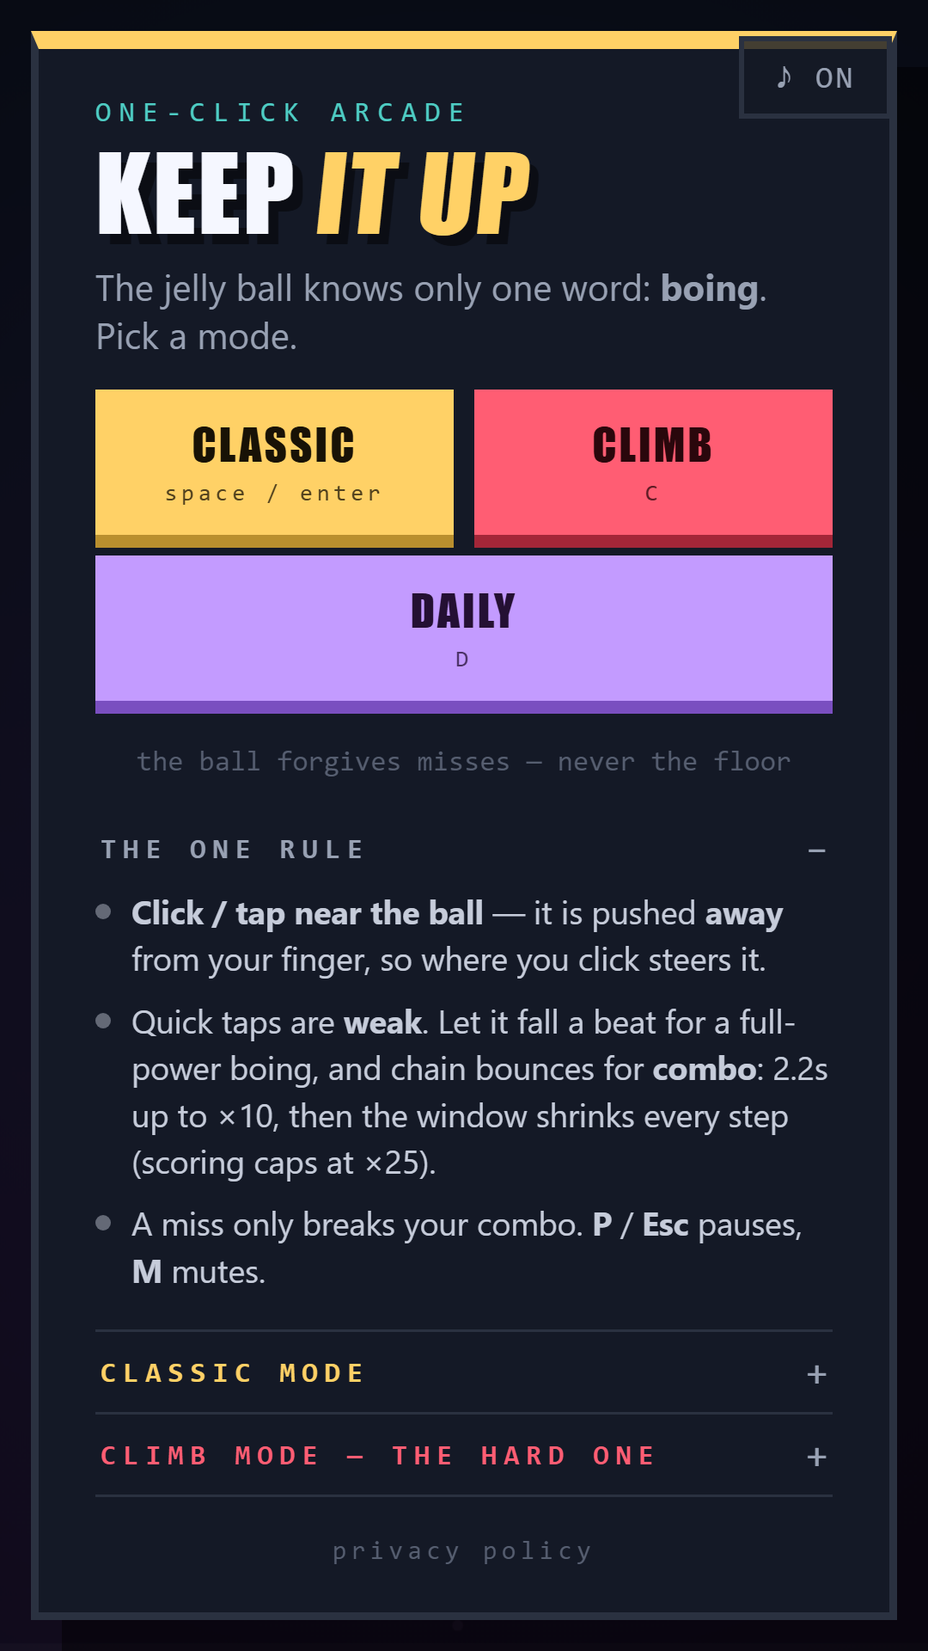
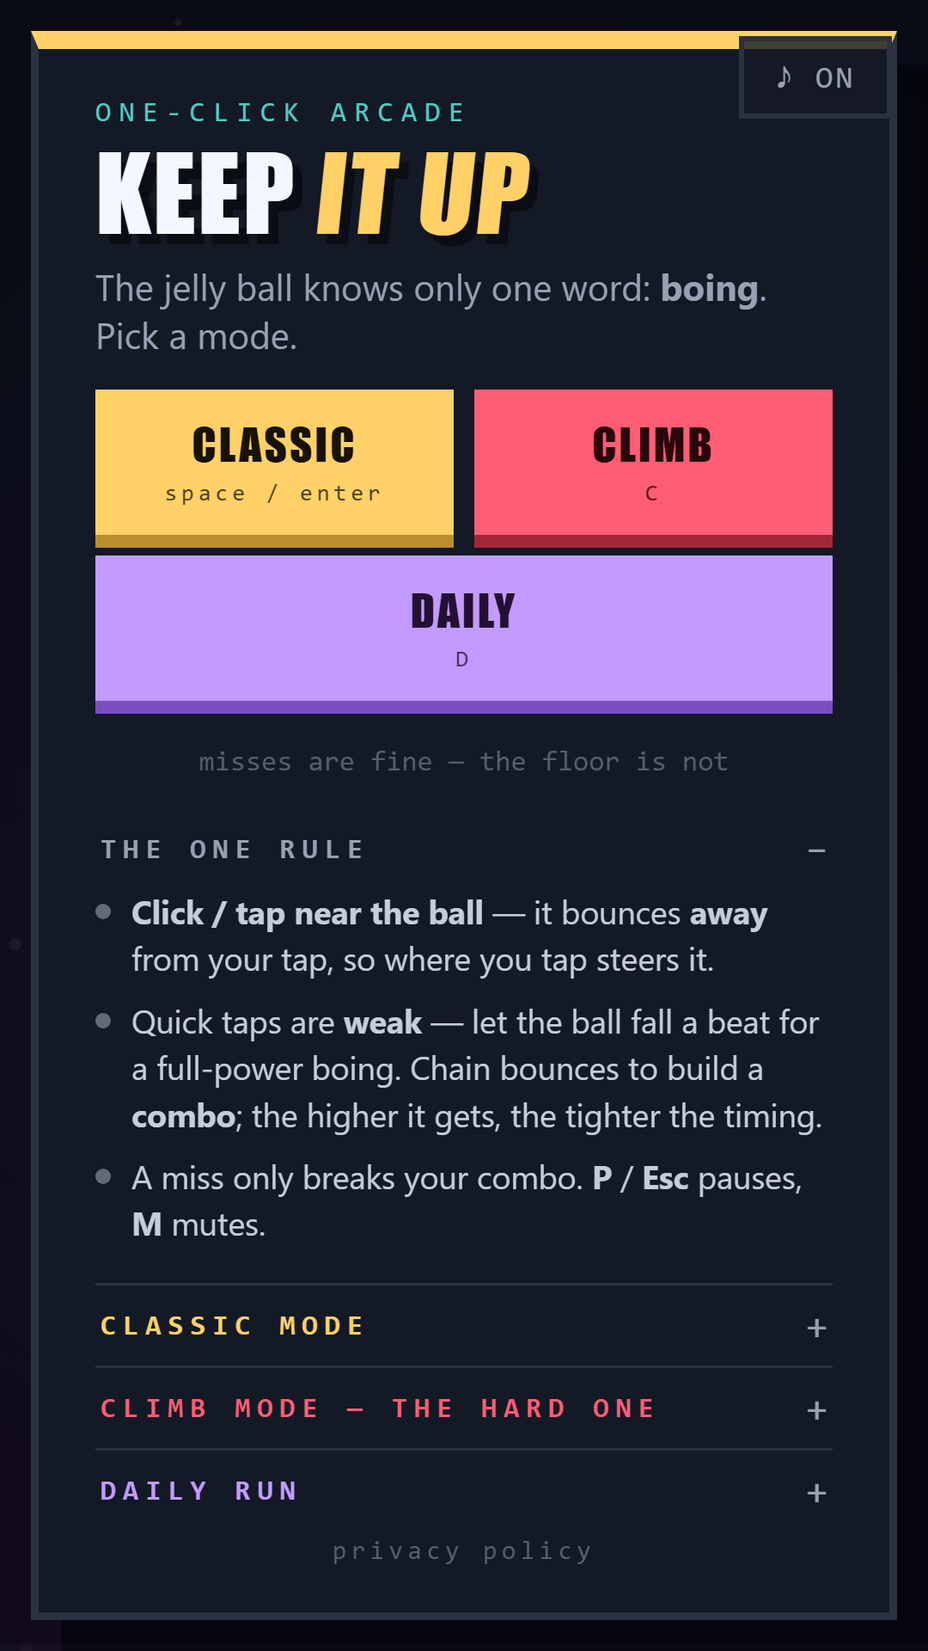
[ui] menu copy: casual plain-language instructions, no seconds/pixels/point values; capture rig gains -Only scene filter, menu shots re-captured

diff --git a/index.html b/index.html
@@ -265,67 +265,67 @@ body.noDisplay h1, body.noDisplay .modeBtn, body.noDisplay button.big{font-weigh
       <button id="startBtn" class="modeBtn gold" type="button">CLASSIC<span class="kbd">space / enter</span></button>
       <button id="climbBtn" class="modeBtn red" type="button">CLIMB<span class="kbd">C</span></button>
       <button id="dailyBtn" class="modeBtn violet" type="button">DAILY<span class="kbd">D</span></button>
-      <p class="hint">the ball forgives misses &mdash; never the floor</p>
+      <p class="hint">misses are fine &mdash; the floor is not</p>
     </div>
     <div class="panelBody">
       <details class="msec" name="howto" open>
         <summary><h2>The one rule</h2></summary>
         <ul class="rules">
-          <li><b>Click / tap near the ball</b> &mdash; it is pushed <b>away</b> from your finger, so where you click steers it.</li>
-          <li>Quick taps are <b>weak</b>. Let it fall a beat for a full-power boing, and chain bounces for <b>combo</b>: 2.2s up to &times;10, then the window shrinks every step (scoring caps at &times;25).</li>
+          <li><b>Click / tap near the ball</b> &mdash; it bounces <b>away</b> from your tap, so where you tap steers it.</li>
+          <li>Quick taps are <b>weak</b> &mdash; let the ball fall a beat for a full-power boing. Chain bounces to build a <b>combo</b>; the higher it gets, the tighter the timing.</li>
           <li>A miss only breaks your combo.<span class="pcOnly"> <b>P</b> / <b>Esc</b> pauses, <b>M</b> mutes.</span></li>
         </ul>
       </details>
       <details class="msec" name="howto">
         <summary><h2 class="hGold">Classic mode</h2></summary>
         <ul class="rules">
-          <li>Score = bounce points &times; combo + pickups. Your best is saved.</li>
-          <li>The <b>floor</b> kills. Hazards start after 9s and never spawn on top of you.</li>
-          <li>Skim a hazard without touching it for a <b>+15 near-miss</b>.</li>
+          <li>Bounces score points and combos multiply them; pickups add more. Your best is saved.</li>
+          <li>The <b>floor</b> ends the run. Hazards join in after a short warm-up, and never right on top of you.</li>
+          <li>Slip past a hazard without touching it for a <b>near-miss bonus</b>.</li>
         </ul>
       </details>
       <details class="msec" name="howto">
         <summary><h2 class="hRed">Climb mode &mdash; the hard one</h2></summary>
         <ul class="rules">
-          <li>Score = <b>metres climbed</b>. The camera only ever moves up.</li>
-          <li>Every 300px a wall of saws blocks the sky with <b>one dashed corridor</b> &mdash; that is your way through.</li>
-          <li><b>Lava</b> rises from below after a 3s grace. It is your floor now.</li>
-          <li>Corridor stars pay +5m; every third wall hides a shield.</li>
+          <li>You score by <b>how high you climb</b>. The camera only moves up.</li>
+          <li>Walls of saws block the sky, each with <b>one dashed gap</b> &mdash; that gap is your way through.</li>
+          <li><b>Lava</b> rises from below after a short head start. It is your floor now.</li>
+          <li>Stars in the gaps add metres, and now and then a wall hides a shield.</li>
         </ul>
       </details>
       <details class="msec" name="howto">
         <summary><h2 class="hViolet">Daily run</h2></summary>
         <p id="dailyStrip" class="daily"></p>
         <ul class="rules">
-          <li>Classic rules, but today's date remixes gravity, saw pace, saw speed and star rate.</li>
-          <li>Everyone gets the same mix; only your best for the day is remembered.</li>
+          <li>Classic rules with a daily twist &mdash; gravity, saws and stars get remixed.</li>
+          <li>Everyone plays the same mix; only your best run of the day is kept.</li>
         </ul>
       </details>
       <details class="msec" name="howto">
         <summary><h2>Hazards &mdash; what kills you</h2></summary>
         <ul class="legend">
-          <li><canvas class="icon" data-icon="saw" aria-hidden="true"></canvas><div><b>Saw</b> &mdash; crosses the screen; a red edge flash warns you before it arrives.</div></li>
-          <li><canvas class="icon" data-icon="spike" aria-hidden="true"></canvas><div><b>Spike</b> &mdash; a ceiling marker telegraphs for 1s, then it drops where you <i>were</i>. Keep moving.</div></li>
-          <li><canvas class="icon" data-icon="seeker" aria-hidden="true"></canvas><div><b>Drone</b> &mdash; after 20s. Slow homing, capped turn rate, dies on walls. Out-fly it.</div></li>
-          <li><canvas class="icon" data-icon="lava" aria-hidden="true"></canvas><div><b>Lava</b> (climb) &mdash; rises forever after its grace. Touching it ends the run.</div></li>
+          <li><canvas class="icon" data-icon="saw" aria-hidden="true"></canvas><div><b>Saw</b> &mdash; sweeps across the screen; the edge flashes red before it arrives.</div></li>
+          <li><canvas class="icon" data-icon="spike" aria-hidden="true"></canvas><div><b>Spike</b> &mdash; a marker on the ceiling warns you, then it drops where you <i>were</i>. Keep moving.</div></li>
+          <li><canvas class="icon" data-icon="seeker" aria-hidden="true"></canvas><div><b>Drone</b> &mdash; shows up later in the run. It chases you slowly, turns wide and dies on walls. Out-fly it.</div></li>
+          <li><canvas class="icon" data-icon="lava" aria-hidden="true"></canvas><div><b>Lava</b> (climb) &mdash; rises from below and never stops. Touching it ends the run.</div></li>
         </ul>
       </details>
       <details class="msec" name="howto">
         <summary><h2>Pickups &mdash; what helps you</h2></summary>
         <ul class="legend">
-          <li><canvas class="icon" data-icon="star" aria-hidden="true"></canvas><div><b>Star</b> &mdash; +40 points (+5m in climb). Blinks just before it despawns.</div></li>
-          <li><canvas class="icon" data-icon="shield" aria-hidden="true"></canvas><div><b>Shield</b> &mdash; eats exactly one hazard hit, then pops.</div></li>
-          <li><canvas class="icon" data-icon="slowmo" aria-hidden="true"></canvas><div><b>Slow-mo</b> &mdash; time crawls at 45% for 4s. Saws included.</div></li>
-          <li><canvas class="icon" data-icon="magnet" aria-hidden="true"></canvas><div><b>Magnet</b> &mdash; stars within 150px fly to you for 6s.</div></li>
-          <li><canvas class="icon" data-icon="heavy" aria-hidden="true"></canvas><div><b>Heavy star</b> &mdash; +200 points, but gravity +15% for 8s. Greed is a choice.</div></li>
+          <li><canvas class="icon" data-icon="star" aria-hidden="true"></canvas><div><b>Star</b> &mdash; bonus points, extra metres in climb. Blinks right before it vanishes.</div></li>
+          <li><canvas class="icon" data-icon="shield" aria-hidden="true"></canvas><div><b>Shield</b> &mdash; takes one hit for you, then pops.</div></li>
+          <li><canvas class="icon" data-icon="slowmo" aria-hidden="true"></canvas><div><b>Slow-mo</b> &mdash; everything slows right down for a while, saws included.</div></li>
+          <li><canvas class="icon" data-icon="magnet" aria-hidden="true"></canvas><div><b>Magnet</b> &mdash; nearby stars fly to you for a while.</div></li>
+          <li><canvas class="icon" data-icon="heavy" aria-hidden="true"></canvas><div><b>Heavy star</b> &mdash; a big score, but the ball gets heavier for a while. Greed is a choice.</div></li>
         </ul>
       </details>
       <details class="msec" name="howto">
         <summary><h2>Progress</h2></summary>
         <div id="badges" class="badges" role="group" aria-label="Achievements"></div>
-        <p class="mini">Badges: &times;10 combo &middot; 3 stars in one run &middot; survive 120s &middot; a shield save.</p>
+        <p class="mini">Badges: a big combo &middot; a few stars in one run &middot; a long run &middot; a shield save.</p>
         <div id="skins" class="swatches" role="group" aria-label="Ball skins"></div>
-        <p class="mini">Skins unlock at best 0 / 600 / 1800 / 4000. Click one to wear it.</p>
+        <p class="mini">New skins unlock as your best score grows. Click one to wear it.</p>
       </details>
     </div>
     <a id="privacyLink" class="miniLink" href="https://demerest.github.io/click-bounce/privacy.html"

diff --git a/dev.html b/dev.html
@@ -54,67 +54,67 @@ window.addEventListener('error', function(e){
       <button id="startBtn" class="modeBtn gold" type="button">CLASSIC<span class="kbd">space / enter</span></button>
       <button id="climbBtn" class="modeBtn red" type="button">CLIMB<span class="kbd">C</span></button>
       <button id="dailyBtn" class="modeBtn violet" type="button">DAILY<span class="kbd">D</span></button>
-      <p class="hint">the ball forgives misses &mdash; never the floor</p>
+      <p class="hint">misses are fine &mdash; the floor is not</p>
     </div>
     <div class="panelBody">
       <details class="msec" name="howto" open>
         <summary><h2>The one rule</h2></summary>
         <ul class="rules">
-          <li><b>Click / tap near the ball</b> &mdash; it is pushed <b>away</b> from your finger, so where you click steers it.</li>
-          <li>Quick taps are <b>weak</b>. Let it fall a beat for a full-power boing, and chain bounces for <b>combo</b>: 2.2s up to &times;10, then the window shrinks every step (scoring caps at &times;25).</li>
+          <li><b>Click / tap near the ball</b> &mdash; it bounces <b>away</b> from your tap, so where you tap steers it.</li>
+          <li>Quick taps are <b>weak</b> &mdash; let the ball fall a beat for a full-power boing. Chain bounces to build a <b>combo</b>; the higher it gets, the tighter the timing.</li>
           <li>A miss only breaks your combo.<span class="pcOnly"> <b>P</b> / <b>Esc</b> pauses, <b>M</b> mutes.</span></li>
         </ul>
       </details>
       <details class="msec" name="howto">
         <summary><h2 class="hGold">Classic mode</h2></summary>
         <ul class="rules">
-          <li>Score = bounce points &times; combo + pickups. Your best is saved.</li>
-          <li>The <b>floor</b> kills. Hazards start after 9s and never spawn on top of you.</li>
-          <li>Skim a hazard without touching it for a <b>+15 near-miss</b>.</li>
+          <li>Bounces score points and combos multiply them; pickups add more. Your best is saved.</li>
+          <li>The <b>floor</b> ends the run. Hazards join in after a short warm-up, and never right on top of you.</li>
+          <li>Slip past a hazard without touching it for a <b>near-miss bonus</b>.</li>
         </ul>
       </details>
       <details class="msec" name="howto">
         <summary><h2 class="hRed">Climb mode &mdash; the hard one</h2></summary>
         <ul class="rules">
-          <li>Score = <b>metres climbed</b>. The camera only ever moves up.</li>
-          <li>Every 300px a wall of saws blocks the sky with <b>one dashed corridor</b> &mdash; that is your way through.</li>
-          <li><b>Lava</b> rises from below after a 3s grace. It is your floor now.</li>
-          <li>Corridor stars pay +5m; every third wall hides a shield.</li>
+          <li>You score by <b>how high you climb</b>. The camera only moves up.</li>
+          <li>Walls of saws block the sky, each with <b>one dashed gap</b> &mdash; that gap is your way through.</li>
+          <li><b>Lava</b> rises from below after a short head start. It is your floor now.</li>
+          <li>Stars in the gaps add metres, and now and then a wall hides a shield.</li>
         </ul>
       </details>
       <details class="msec" name="howto">
         <summary><h2 class="hViolet">Daily run</h2></summary>
         <p id="dailyStrip" class="daily"></p>
         <ul class="rules">
-          <li>Classic rules, but today's date remixes gravity, saw pace, saw speed and star rate.</li>
-          <li>Everyone gets the same mix; only your best for the day is remembered.</li>
+          <li>Classic rules with a daily twist &mdash; gravity, saws and stars get remixed.</li>
+          <li>Everyone plays the same mix; only your best run of the day is kept.</li>
         </ul>
       </details>
       <details class="msec" name="howto">
         <summary><h2>Hazards &mdash; what kills you</h2></summary>
         <ul class="legend">
-          <li><canvas class="icon" data-icon="saw" aria-hidden="true"></canvas><div><b>Saw</b> &mdash; crosses the screen; a red edge flash warns you before it arrives.</div></li>
-          <li><canvas class="icon" data-icon="spike" aria-hidden="true"></canvas><div><b>Spike</b> &mdash; a ceiling marker telegraphs for 1s, then it drops where you <i>were</i>. Keep moving.</div></li>
-          <li><canvas class="icon" data-icon="seeker" aria-hidden="true"></canvas><div><b>Drone</b> &mdash; after 20s. Slow homing, capped turn rate, dies on walls. Out-fly it.</div></li>
-          <li><canvas class="icon" data-icon="lava" aria-hidden="true"></canvas><div><b>Lava</b> (climb) &mdash; rises forever after its grace. Touching it ends the run.</div></li>
+          <li><canvas class="icon" data-icon="saw" aria-hidden="true"></canvas><div><b>Saw</b> &mdash; sweeps across the screen; the edge flashes red before it arrives.</div></li>
+          <li><canvas class="icon" data-icon="spike" aria-hidden="true"></canvas><div><b>Spike</b> &mdash; a marker on the ceiling warns you, then it drops where you <i>were</i>. Keep moving.</div></li>
+          <li><canvas class="icon" data-icon="seeker" aria-hidden="true"></canvas><div><b>Drone</b> &mdash; shows up later in the run. It chases you slowly, turns wide and dies on walls. Out-fly it.</div></li>
+          <li><canvas class="icon" data-icon="lava" aria-hidden="true"></canvas><div><b>Lava</b> (climb) &mdash; rises from below and never stops. Touching it ends the run.</div></li>
         </ul>
       </details>
       <details class="msec" name="howto">
         <summary><h2>Pickups &mdash; what helps you</h2></summary>
         <ul class="legend">
-          <li><canvas class="icon" data-icon="star" aria-hidden="true"></canvas><div><b>Star</b> &mdash; +40 points (+5m in climb). Blinks just before it despawns.</div></li>
-          <li><canvas class="icon" data-icon="shield" aria-hidden="true"></canvas><div><b>Shield</b> &mdash; eats exactly one hazard hit, then pops.</div></li>
-          <li><canvas class="icon" data-icon="slowmo" aria-hidden="true"></canvas><div><b>Slow-mo</b> &mdash; time crawls at 45% for 4s. Saws included.</div></li>
-          <li><canvas class="icon" data-icon="magnet" aria-hidden="true"></canvas><div><b>Magnet</b> &mdash; stars within 150px fly to you for 6s.</div></li>
-          <li><canvas class="icon" data-icon="heavy" aria-hidden="true"></canvas><div><b>Heavy star</b> &mdash; +200 points, but gravity +15% for 8s. Greed is a choice.</div></li>
+          <li><canvas class="icon" data-icon="star" aria-hidden="true"></canvas><div><b>Star</b> &mdash; bonus points, extra metres in climb. Blinks right before it vanishes.</div></li>
+          <li><canvas class="icon" data-icon="shield" aria-hidden="true"></canvas><div><b>Shield</b> &mdash; takes one hit for you, then pops.</div></li>
+          <li><canvas class="icon" data-icon="slowmo" aria-hidden="true"></canvas><div><b>Slow-mo</b> &mdash; everything slows right down for a while, saws included.</div></li>
+          <li><canvas class="icon" data-icon="magnet" aria-hidden="true"></canvas><div><b>Magnet</b> &mdash; nearby stars fly to you for a while.</div></li>
+          <li><canvas class="icon" data-icon="heavy" aria-hidden="true"></canvas><div><b>Heavy star</b> &mdash; a big score, but the ball gets heavier for a while. Greed is a choice.</div></li>
         </ul>
       </details>
       <details class="msec" name="howto">
         <summary><h2>Progress</h2></summary>
         <div id="badges" class="badges" role="group" aria-label="Achievements"></div>
-        <p class="mini">Badges: &times;10 combo &middot; 3 stars in one run &middot; survive 120s &middot; a shield save.</p>
+        <p class="mini">Badges: a big combo &middot; a few stars in one run &middot; a long run &middot; a shield save.</p>
         <div id="skins" class="swatches" role="group" aria-label="Ball skins"></div>
-        <p class="mini">Skins unlock at best 0 / 600 / 1800 / 4000. Click one to wear it.</p>
+        <p class="mini">New skins unlock as your best score grows. Click one to wear it.</p>
       </details>
     </div>
     <a id="privacyLink" class="miniLink" href="https://demerest.github.io/click-bounce/privacy.html"

diff --git a/src/shell.html b/src/shell.html
@@ -54,67 +54,67 @@ window.addEventListener('error', function(e){
       <button id="startBtn" class="modeBtn gold" type="button">CLASSIC<span class="kbd">space / enter</span></button>
       <button id="climbBtn" class="modeBtn red" type="button">CLIMB<span class="kbd">C</span></button>
       <button id="dailyBtn" class="modeBtn violet" type="button">DAILY<span class="kbd">D</span></button>
-      <p class="hint">the ball forgives misses &mdash; never the floor</p>
+      <p class="hint">misses are fine &mdash; the floor is not</p>
     </div>
     <div class="panelBody">
       <details class="msec" name="howto" open>
         <summary><h2>The one rule</h2></summary>
         <ul class="rules">
-          <li><b>Click / tap near the ball</b> &mdash; it is pushed <b>away</b> from your finger, so where you click steers it.</li>
-          <li>Quick taps are <b>weak</b>. Let it fall a beat for a full-power boing, and chain bounces for <b>combo</b>: 2.2s up to &times;10, then the window shrinks every step (scoring caps at &times;25).</li>
+          <li><b>Click / tap near the ball</b> &mdash; it bounces <b>away</b> from your tap, so where you tap steers it.</li>
+          <li>Quick taps are <b>weak</b> &mdash; let the ball fall a beat for a full-power boing. Chain bounces to build a <b>combo</b>; the higher it gets, the tighter the timing.</li>
           <li>A miss only breaks your combo.<span class="pcOnly"> <b>P</b> / <b>Esc</b> pauses, <b>M</b> mutes.</span></li>
         </ul>
       </details>
       <details class="msec" name="howto">
         <summary><h2 class="hGold">Classic mode</h2></summary>
         <ul class="rules">
-          <li>Score = bounce points &times; combo + pickups. Your best is saved.</li>
-          <li>The <b>floor</b> kills. Hazards start after 9s and never spawn on top of you.</li>
-          <li>Skim a hazard without touching it for a <b>+15 near-miss</b>.</li>
+          <li>Bounces score points and combos multiply them; pickups add more. Your best is saved.</li>
+          <li>The <b>floor</b> ends the run. Hazards join in after a short warm-up, and never right on top of you.</li>
+          <li>Slip past a hazard without touching it for a <b>near-miss bonus</b>.</li>
         </ul>
       </details>
       <details class="msec" name="howto">
         <summary><h2 class="hRed">Climb mode &mdash; the hard one</h2></summary>
         <ul class="rules">
-          <li>Score = <b>metres climbed</b>. The camera only ever moves up.</li>
-          <li>Every 300px a wall of saws blocks the sky with <b>one dashed corridor</b> &mdash; that is your way through.</li>
-          <li><b>Lava</b> rises from below after a 3s grace. It is your floor now.</li>
-          <li>Corridor stars pay +5m; every third wall hides a shield.</li>
+          <li>You score by <b>how high you climb</b>. The camera only moves up.</li>
+          <li>Walls of saws block the sky, each with <b>one dashed gap</b> &mdash; that gap is your way through.</li>
+          <li><b>Lava</b> rises from below after a short head start. It is your floor now.</li>
+          <li>Stars in the gaps add metres, and now and then a wall hides a shield.</li>
         </ul>
       </details>
       <details class="msec" name="howto">
         <summary><h2 class="hViolet">Daily run</h2></summary>
         <p id="dailyStrip" class="daily"></p>
         <ul class="rules">
-          <li>Classic rules, but today's date remixes gravity, saw pace, saw speed and star rate.</li>
-          <li>Everyone gets the same mix; only your best for the day is remembered.</li>
+          <li>Classic rules with a daily twist &mdash; gravity, saws and stars get remixed.</li>
+          <li>Everyone plays the same mix; only your best run of the day is kept.</li>
         </ul>
       </details>
       <details class="msec" name="howto">
         <summary><h2>Hazards &mdash; what kills you</h2></summary>
         <ul class="legend">
-          <li><canvas class="icon" data-icon="saw" aria-hidden="true"></canvas><div><b>Saw</b> &mdash; crosses the screen; a red edge flash warns you before it arrives.</div></li>
-          <li><canvas class="icon" data-icon="spike" aria-hidden="true"></canvas><div><b>Spike</b> &mdash; a ceiling marker telegraphs for 1s, then it drops where you <i>were</i>. Keep moving.</div></li>
-          <li><canvas class="icon" data-icon="seeker" aria-hidden="true"></canvas><div><b>Drone</b> &mdash; after 20s. Slow homing, capped turn rate, dies on walls. Out-fly it.</div></li>
-          <li><canvas class="icon" data-icon="lava" aria-hidden="true"></canvas><div><b>Lava</b> (climb) &mdash; rises forever after its grace. Touching it ends the run.</div></li>
+          <li><canvas class="icon" data-icon="saw" aria-hidden="true"></canvas><div><b>Saw</b> &mdash; sweeps across the screen; the edge flashes red before it arrives.</div></li>
+          <li><canvas class="icon" data-icon="spike" aria-hidden="true"></canvas><div><b>Spike</b> &mdash; a marker on the ceiling warns you, then it drops where you <i>were</i>. Keep moving.</div></li>
+          <li><canvas class="icon" data-icon="seeker" aria-hidden="true"></canvas><div><b>Drone</b> &mdash; shows up later in the run. It chases you slowly, turns wide and dies on walls. Out-fly it.</div></li>
+          <li><canvas class="icon" data-icon="lava" aria-hidden="true"></canvas><div><b>Lava</b> (climb) &mdash; rises from below and never stops. Touching it ends the run.</div></li>
         </ul>
       </details>
       <details class="msec" name="howto">
         <summary><h2>Pickups &mdash; what helps you</h2></summary>
         <ul class="legend">
-          <li><canvas class="icon" data-icon="star" aria-hidden="true"></canvas><div><b>Star</b> &mdash; +40 points (+5m in climb). Blinks just before it despawns.</div></li>
-          <li><canvas class="icon" data-icon="shield" aria-hidden="true"></canvas><div><b>Shield</b> &mdash; eats exactly one hazard hit, then pops.</div></li>
-          <li><canvas class="icon" data-icon="slowmo" aria-hidden="true"></canvas><div><b>Slow-mo</b> &mdash; time crawls at 45% for 4s. Saws included.</div></li>
-          <li><canvas class="icon" data-icon="magnet" aria-hidden="true"></canvas><div><b>Magnet</b> &mdash; stars within 150px fly to you for 6s.</div></li>
-          <li><canvas class="icon" data-icon="heavy" aria-hidden="true"></canvas><div><b>Heavy star</b> &mdash; +200 points, but gravity +15% for 8s. Greed is a choice.</div></li>
+          <li><canvas class="icon" data-icon="star" aria-hidden="true"></canvas><div><b>Star</b> &mdash; bonus points, extra metres in climb. Blinks right before it vanishes.</div></li>
+          <li><canvas class="icon" data-icon="shield" aria-hidden="true"></canvas><div><b>Shield</b> &mdash; takes one hit for you, then pops.</div></li>
+          <li><canvas class="icon" data-icon="slowmo" aria-hidden="true"></canvas><div><b>Slow-mo</b> &mdash; everything slows right down for a while, saws included.</div></li>
+          <li><canvas class="icon" data-icon="magnet" aria-hidden="true"></canvas><div><b>Magnet</b> &mdash; nearby stars fly to you for a while.</div></li>
+          <li><canvas class="icon" data-icon="heavy" aria-hidden="true"></canvas><div><b>Heavy star</b> &mdash; a big score, but the ball gets heavier for a while. Greed is a choice.</div></li>
         </ul>
       </details>
       <details class="msec" name="howto">
         <summary><h2>Progress</h2></summary>
         <div id="badges" class="badges" role="group" aria-label="Achievements"></div>
-        <p class="mini">Badges: &times;10 combo &middot; 3 stars in one run &middot; survive 120s &middot; a shield save.</p>
+        <p class="mini">Badges: a big combo &middot; a few stars in one run &middot; a long run &middot; a shield save.</p>
         <div id="skins" class="swatches" role="group" aria-label="Ball skins"></div>
-        <p class="mini">Skins unlock at best 0 / 600 / 1800 / 4000. Click one to wear it.</p>
+        <p class="mini">New skins unlock as your best score grows. Click one to wear it.</p>
       </details>
     </div>
     <a id="privacyLink" class="miniLink" href="https://demerest.github.io/click-bounce/privacy.html"
